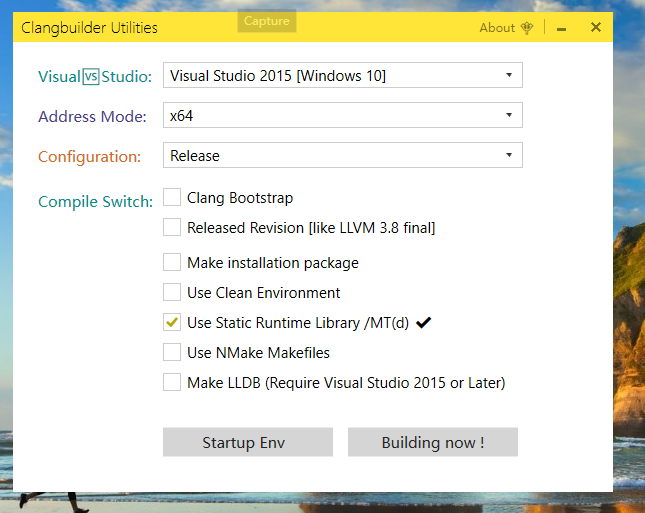
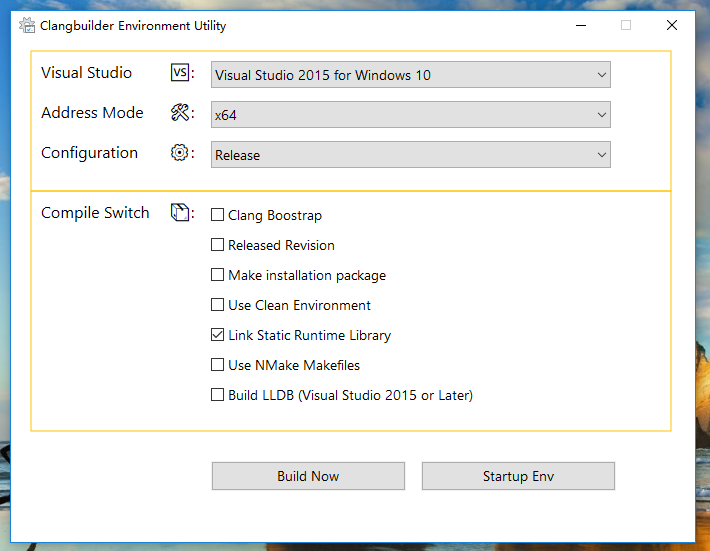
Update ReadMe

diff --git a/ReadMe.md b/ReadMe.md
@@ -1,10 +1,10 @@
 # Clang Builder
 
-Clang Build Environment On Windows, Long Term Evolution   
+Clang Build Environment On Windows, Long Term Evolution
 
-## Installation:
+## Installation
 
-### Usually:
+### Usually
 
 Download from Github, If your known use Git
 
@@ -36,7 +36,7 @@ Set-ExecutionPolicy RemoteSigned
 ```
 
 
-#### Web Installer:
+#### Web Installer
 
 PowerShell, Enter:
 
@@ -56,9 +56,10 @@ By default **Your Should Input Your Clangbuilder Install Loaction!!!!**
 ## Clang on Windows
 
 When Build Clang on Windows,Best of Visual Studio version
->VisualStudio 2013 Update 4
+>VisualStudio 2015
 
 Or Your can use Mingw-w64,your can cross compile LLVM on Linux ,Mingw-w64 Support it.
+>MSYS2
 
 The Other,Your can use cmake to create MinGW Makefile,or NMake Makefile ,run it ,The C and C++ Compiler is Mingw-w64 tools ( i686-w64-mingw32-gcc ,x86_64-w64-mingw32-g++)
 
@@ -73,20 +74,12 @@ PowerShell -File .\bin\ClangbuilderManager.ps1 -VisualStudio 120 -Arch x64 -Flav
 
 
 
-## User Interface
+## ClangbuilderUI
 
-ClangbuilderUI
+Your can click ClangbuilderUI, select your Visual Studio Version and Arch, and configuration
 
-![clangbuilderUI](https://raw.githubusercontent.com/fstudio/clangbuilder/master/doc/images/ClangbuilderUI.png)
+![clangbuilder](./doc/images/ClangbuilderUI.png)
 
-
-Clangbuilder Native
-
-![clangbuilder.native](./doc/images/ClangbuilderUI.Native.png)
-
-Launcher
-
-![launcher](https://raw.githubusercontent.com/fstudio/clangbuilder/master/doc/images/launcher.jpg)
 
 
 ## Suggest
@@ -99,8 +92,8 @@ Launcher
 
 
 
-## Other
+## Copyright
 
-First Author: Force.Charlie  
+Author: Force.Charlie  
 Copyright © 2016 ForceStudio. All Rights Reserved.
 
